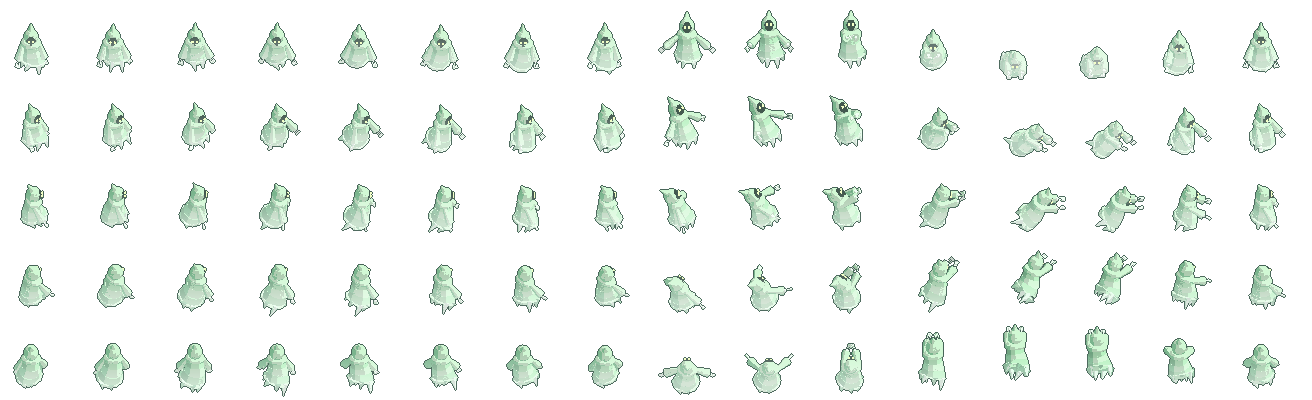
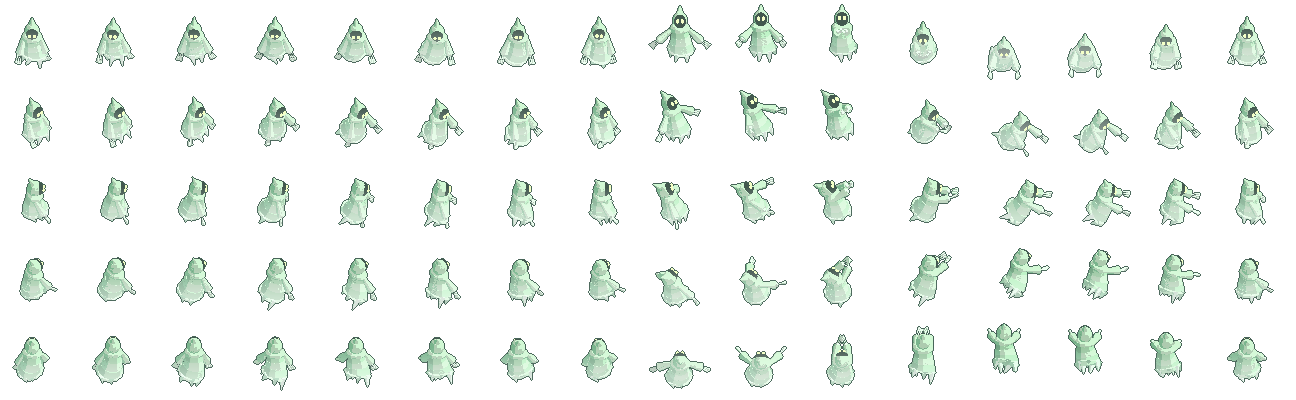
v2: polimento da Serpente Ardente (boca aberta legivel no bote) e do Fantasma da Mata (contraste de frente)
Serpente: mandibula mais aberta, cabeca cresce no bote e inclina para cima, interior em brasa clara
(garganta e lingua), forro escuro no ceu da boca e presas maiores. Fantasma: vao do capuz maior e escuro,
olhos maiores, bracos abertos para os lados no bote, cabeca erguida e garras firmes (opacas) na transparencia.
Folhas regeradas; fichas (quadro, pe, alcance, frente) acompanham os .json.

diff --git a/jogos/hordas/fonte_arte/blender_serpente/gerar_serpente.py b/jogos/hordas/fonte_arte/blender_serpente/gerar_serpente.py
@@ -49,7 +49,7 @@ W0, H0 = 72, 80          # ponto de partida; o quadro cresce até caber
 
 FAIXAS = (0.62, 0.82, 1.0)
 BASES = {"corpo": "f2641a", "ventre": "b8300e", "cabeca": "ffa030", "boca": "4a0a06", "presa": "fff0cc"}
-EMISSAO = {"chama": "ff9a28", "nucleo": "ffd84e", "olho": "fff7a8"}
+EMISSAO = {"chama": "ff9a28", "nucleo": "ffd84e", "olho": "fff7a8", "garganta": "ffc43c"}
 
 
 def _srgb(v):
@@ -113,10 +113,15 @@ def modelo():
     esfera("focinho", 0.17, (0, -0.3, -0.01), mat["cabeca"], cab, escala=(0.9, 1.25, 0.68))
     mand = junta("mandibula", (0, -0.12, -0.1), cab)
     J["mandibula"] = mand
-    esfera("mand_p", 0.15, (0, -0.28, -0.12), mat["ventre"], mand, escala=(0.9, 1.4, 0.45))
-    esfera("boca_p", 0.13, (0, -0.28, -0.06), mat["boca"], mand, escala=(0.85, 1.3, 0.35))
-    for x in (0.07, -0.07):
-        cone("presa", 0.0, 0.035, 0.15, (x, -0.38, -0.12), mat["presa"], cab)
+    esfera("mand_p", 0.17, (0, -0.3, -0.13), mat["ventre"], mand, escala=(0.95, 1.5, 0.45))
+    # o interior da boca: forro vermelho-escuro no céu da boca e na mandíbula, com a brasa clara (garganta e língua) por cima do forro da mandíbula
+    esfera("palato", 0.16, (0, -0.24, -0.09), mat["boca"], cab, escala=(0.95, 1.5, 0.3))
+    esfera("boca_p", 0.17, (0, -0.28, -0.08), mat["boca"], mand, escala=(0.95, 1.4, 0.35))
+    esfera("lingua", 0.16, (0, -0.28, -0.045), mat["garganta"], mand, escala=(0.7, 1.5, 0.3))
+    J["goela"] = esfera("goela", 0.15, (0, -0.17, -0.07), mat["garganta"], cab, escala=(0.85, 1.4, 0.9))   # a brasa no fundo da boca: lê de perfil no vão entre as mandíbulas
+    for x in (0.08, -0.08):
+        cone("presa", 0.0, 0.045, 0.21, (x, -0.38, -0.115), mat["presa"], cab)
+        cone("presa_b", 0.0, 0.03, 0.12, (x * 0.8, -0.4, -0.06), mat["presa"], mand).rotation_euler = (math.pi, 0, 0)
         esfera("olho", 0.075, (x * 2.0, -0.15, 0.13), mat["olho"], cab, escala=(1.0, 0.8, 1.2))
     for k, (x, y, h) in enumerate(((0.0, 0.1, 0.34), (0.14, 0.14, 0.26), (-0.14, 0.14, 0.26))):
         c = cone("crista%d" % k, 0.07, 0.0, h, (x, y, 0.28 + h / 2.0 - 0.05), mat["chama"], cab)
@@ -134,9 +139,9 @@ ATQ = (
     {"cab_y": -1.20, "cau_y": 1.50, "alto": 0.70, "pescoco": 1.0, "amp": 0.50, "rip": 0.10, "boca": 0.0, "pitch": 0.2, "chama": 0.9},     # 8  se enrosca
     {"cab_y": -0.85, "cau_y": 1.40, "alto": 1.10, "pescoco": 1.1, "amp": 0.60, "rip": 0.10, "boca": 0.2, "pitch": 0.0, "chama": 1.1},     # 9  ergue o pescoço
     {"cab_y": -0.65, "cau_y": 1.30, "alto": 1.50, "pescoco": 1.2, "amp": 0.65, "rip": 0.08, "boca": 0.5, "pitch": -0.1, "chama": 1.3},    # 10 arma o bote (a cabeça de lado para a frente)
-    {"cab_y": -1.25, "cau_y": 1.00, "alto": 1.00, "pescoco": 1.0, "amp": 0.45, "rip": 0.06, "boca": 0.9, "pitch": -0.35, "chama": 1.3},   # 11 dispara
-    {"cab_y": -2.20, "cau_y": 0.55, "alto": 0.38, "pescoco": 0.8, "amp": 0.22, "rip": 0.03, "boca": 1.0, "pitch": -0.30, "chama": 1.5},   # 12 BOTE
-    {"cab_y": -2.10, "cau_y": 0.55, "alto": 0.32, "pescoco": 0.8, "amp": 0.20, "rip": 0.03, "boca": 1.0, "pitch": -0.25, "chama": 1.6},   # 13 segura e estala
+    {"cab_y": -1.25, "cau_y": 1.00, "alto": 1.00, "pescoco": 1.0, "amp": 0.45, "rip": 0.06, "boca": 0.9, "pitch": 0.1, "chama": 1.3, "esc": 1.6},   # 11 dispara
+    {"cab_y": -2.20, "cau_y": 0.55, "alto": 0.38, "pescoco": 0.8, "amp": 0.22, "rip": 0.03, "boca": 1.0, "pitch": 0.3, "chama": 1.5, "esc": 2.2},   # 12 BOTE
+    {"cab_y": -2.10, "cau_y": 0.55, "alto": 0.32, "pescoco": 0.8, "amp": 0.20, "rip": 0.03, "boca": 1.0, "pitch": 0.3, "chama": 1.6, "esc": 2.2},   # 13 segura e estala
     {"cab_y": -1.75, "cau_y": 0.95, "alto": 0.50, "pescoco": 0.9, "amp": 0.34, "rip": 0.05, "boca": 0.4, "pitch": 0.0, "chama": 1.2},    # 14 recolhe
     {"cab_y": -1.50, "cau_y": 1.40, "alto": 0.45, "pescoco": 1.0, "amp": 0.32, "rip": 0.07, "boca": 0.0, "pitch": 0.15, "chama": 1.0},    # 15 assenta
 )
@@ -180,8 +185,11 @@ def pose(J, q):
     cab.location = (topo[0], topo[1], topo[2])
     yaw = math.atan2(pts[0][0] - pts[2][0], pts[2][1] - pts[0][1]) * 0.6      # a cabeça acompanha a curva do pescoço
     cab.rotation_euler = (-p["pitch"], 0.0, yaw)       # rotação em X positiva baixa o focinho: pitch positivo olha para cima
-    cab.scale = (1.4, 1.4, 1.4)
-    J["mandibula"].rotation_euler = (p["boca"] * 0.95, 0, 0)
+    e = p.get("esc", 1.4)       # no bote a cabeça cresce (estilo desenho): a boca aberta precisa ler em poucos pixels
+    cab.scale = (e, e, e)
+    g = max(0.01, p["boca"] ** 1.5)      # a brasa do fundo só aparece com a boca aberta
+    J["goela"].scale = (g, g, g)
+    J["mandibula"].rotation_euler = (p["boca"] * 1.3, 0, 0)
     if q >= ANDAR + IMPACTO:        # o estalo: a cabeça treme
         cab.location = (topo[0] + 0.03 * math.sin(f * 4.0), topo[1], topo[2])
     return Vector(topo)

diff --git a/jogos/hordas/fonte_arte/blender_fantasma/gerar_fantasma.py b/jogos/hordas/fonte_arte/blender_fantasma/gerar_fantasma.py
@@ -110,9 +110,9 @@ def modelo():
     esfera("capuz", 0.37, (0, 0.02, OMBRO_Z + 0.42), mat["capuz"], cabeca, escala=(0.95, 1.0, 1.1))
     ponta = cone("capuz_ponta", 0.2, 0.0, 0.5, (0, 0.2, OMBRO_Z + 0.88), mat["capuz"], cabeca)
     ponta.rotation_euler = (-0.55, 0, 0)         # a ponta do capuz cai para trás
-    esfera("rosto", 0.27, (0, -0.2, OMBRO_Z + 0.42), mat["rosto"], cabeca, escala=(0.9, 0.6, 1.05))
+    esfera("rosto", 0.31, (0, -0.2, OMBRO_Z + 0.42), mat["rosto"], cabeca, escala=(0.95, 0.62, 1.1))      # o vão do capuz: um buraco escuro grande, para os olhos saltarem
     for x in (0.1, -0.1):
-        esfera("olho", 0.06, (x, -0.38, OMBRO_Z + 0.48), mat["olho"], cabeca, escala=(1.0, 0.7, 1.3))
+        esfera("olho", 0.085, (x * 1.1, -0.4, OMBRO_Z + 0.48), mat["olho"], cabeca, escala=(1.0, 0.7, 1.35))
     # boca: um oval escuro que abre no bote (a escala em Z é a abertura)
     boca = junta("boca", (0, -0.4, OMBRO_Z + 0.28), cabeca)
     J["boca"] = boca
@@ -123,9 +123,9 @@ def modelo():
         b = junta("braco_" + lado, (x, -0.02, OMBRO_Z - 0.05), tronco)
         cone("manga_" + lado, 0.2, 0.1, 0.8, (x, -0.02, OMBRO_Z - 0.45), mat["capuz"], b)
         mao = junta("mao_" + lado, (x, -0.02, OMBRO_Z - 0.85), b)
-        esfera("palma_" + lado, 0.1, (x, -0.02, OMBRO_Z - 0.88), mat["garra"], mao, escala=(1.0, 1.0, 0.8))
+        esfera("palma_" + lado, 0.12, (x, -0.02, OMBRO_Z - 0.88), mat["garra"], mao, escala=(1.0, 1.0, 0.8))
         for k, dx in enumerate((-0.07, 0.0, 0.07)):
-            cone("garra_%s%d" % (lado, k), 0.045, 0.0, 0.3, (x + dx, -0.02, OMBRO_Z - 1.1), mat["garra"], mao)
+            cone("garra_%s%d" % (lado, k), 0.06, 0.0, 0.42, (x + dx * 1.3, -0.02, OMBRO_Z - 1.14), mat["garra"], mao)
         J["braco"][lado] = (b, mao)
     raiz.scale = (ESCALA, ESCALA, ESCALA)
     return J
@@ -138,9 +138,9 @@ ATQ = (
     (0.22, -0.05, -0.25, -0.2, 0.95, 0.2, -0.25, 0.0, 0.5),       # 8  recua e se encolhe, braços abertos para trás
     (0.12, 0.05, -0.35, -0.8, 1.15, -0.2, -0.30, 0.3, 0.6),       # 9  cresce, braços abrindo
     (0.05, 0.12, -0.35, -1.9, 0.9, -0.4, -0.35, 0.8, 0.5),        # 10 pico: braços para o alto, boca abrindo
-    (-0.20, 0.05, 0.15, -2.0, 0.5, -0.3, 0.15, 1.0, 0.7),         # 11 começa o bote
-    (-0.70, -0.05, 0.40, -2.0, 0.25, -0.1, 0.30, 1.0, 1.1),       # 12 BOTE: capuz à frente, garras estendidas
-    (-0.60, -0.04, 0.35, -1.9, 0.30, -0.1, 0.25, 0.9, 1.0),       # 13 segura
+    (-0.20, 0.05, 0.15, -1.8, 0.8, -0.3, 0.0, 1.0, 0.7),          # 11 começa o bote
+    (-0.70, -0.05, 0.30, -1.3, 1.25, -0.1, 0.0, 1.0, 1.1),        # 12 BOTE: capuz à frente, braços abertos e garras estendidas
+    (-0.60, -0.04, 0.28, -1.3, 1.25, -0.1, 0.0, 0.9, 1.0),        # 13 segura
     (-0.25, 0.0, 0.15, -1.2, 0.45, 0.0, 0.1, 0.3, 0.8),           # 14 volta
     (-0.05, 0.0, 0.05, -0.6, 0.4, 0.0, 0.0, 0.0, 0.7),            # 15 assenta
 )
@@ -200,7 +200,11 @@ def assar_transparencia(folha, H, pe_y):
     corpo = (0.40 + 0.38 * sobe)[:, None]
     olho = cheio & np.all(np.abs(folha[:, :, :3] - OLHO_RGB) < 0.02, axis=2)
     borda = cheio & np.all(np.abs(folha[:, :, :3] - CONT) < 1e-3, axis=2)
+    garra = np.zeros_like(cheio)
+    for t in _tons(BASES["garra"]):
+        garra |= cheio & np.all(np.abs(folha[:, :, :3] - np.array(t)) < 2e-3, axis=2)
     novo = np.where(cheio, corpo, 0.0)
+    novo = np.where(garra, np.maximum(novo, 0.92), novo)
     novo = np.where(borda, np.maximum(novo, 0.75), novo)
     novo = np.where(olho, 1.0, novo)
     folha[:, :, 3] = novo
